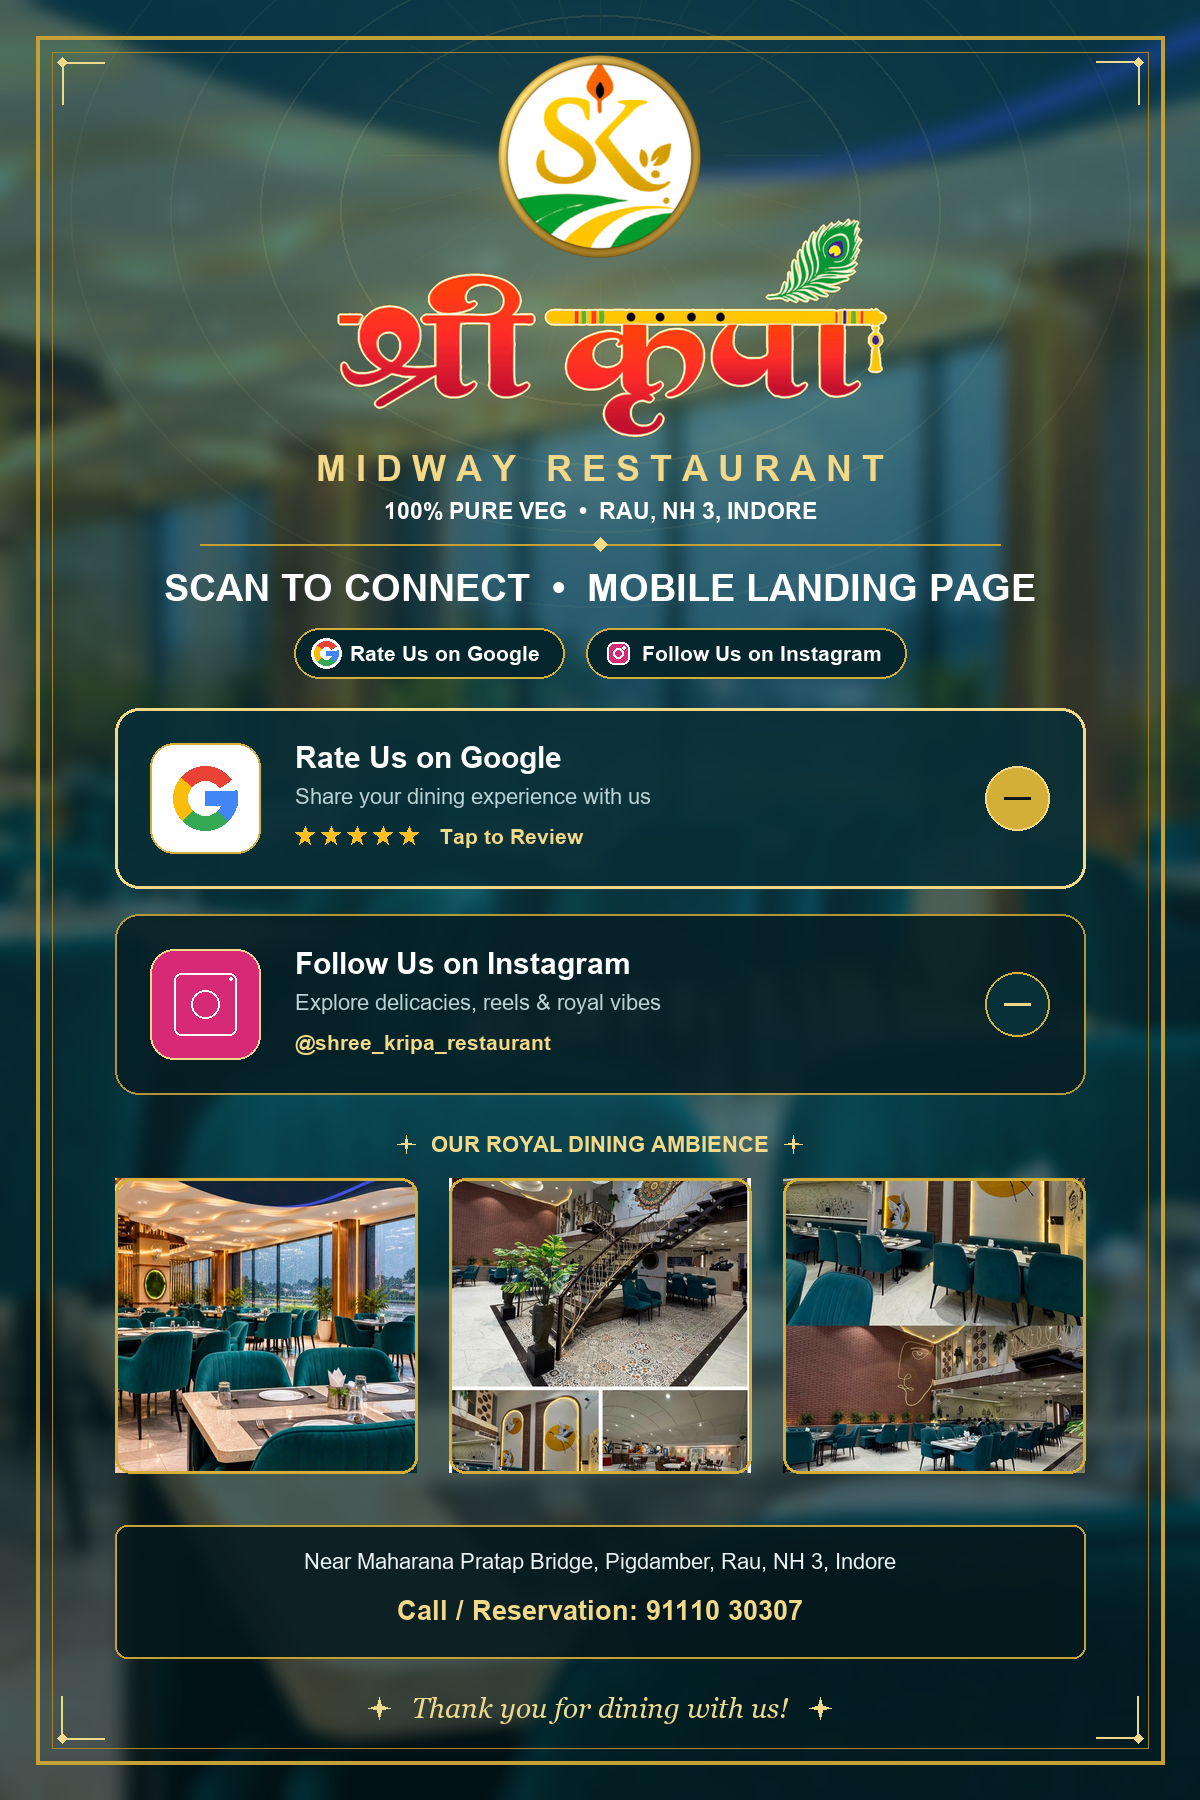
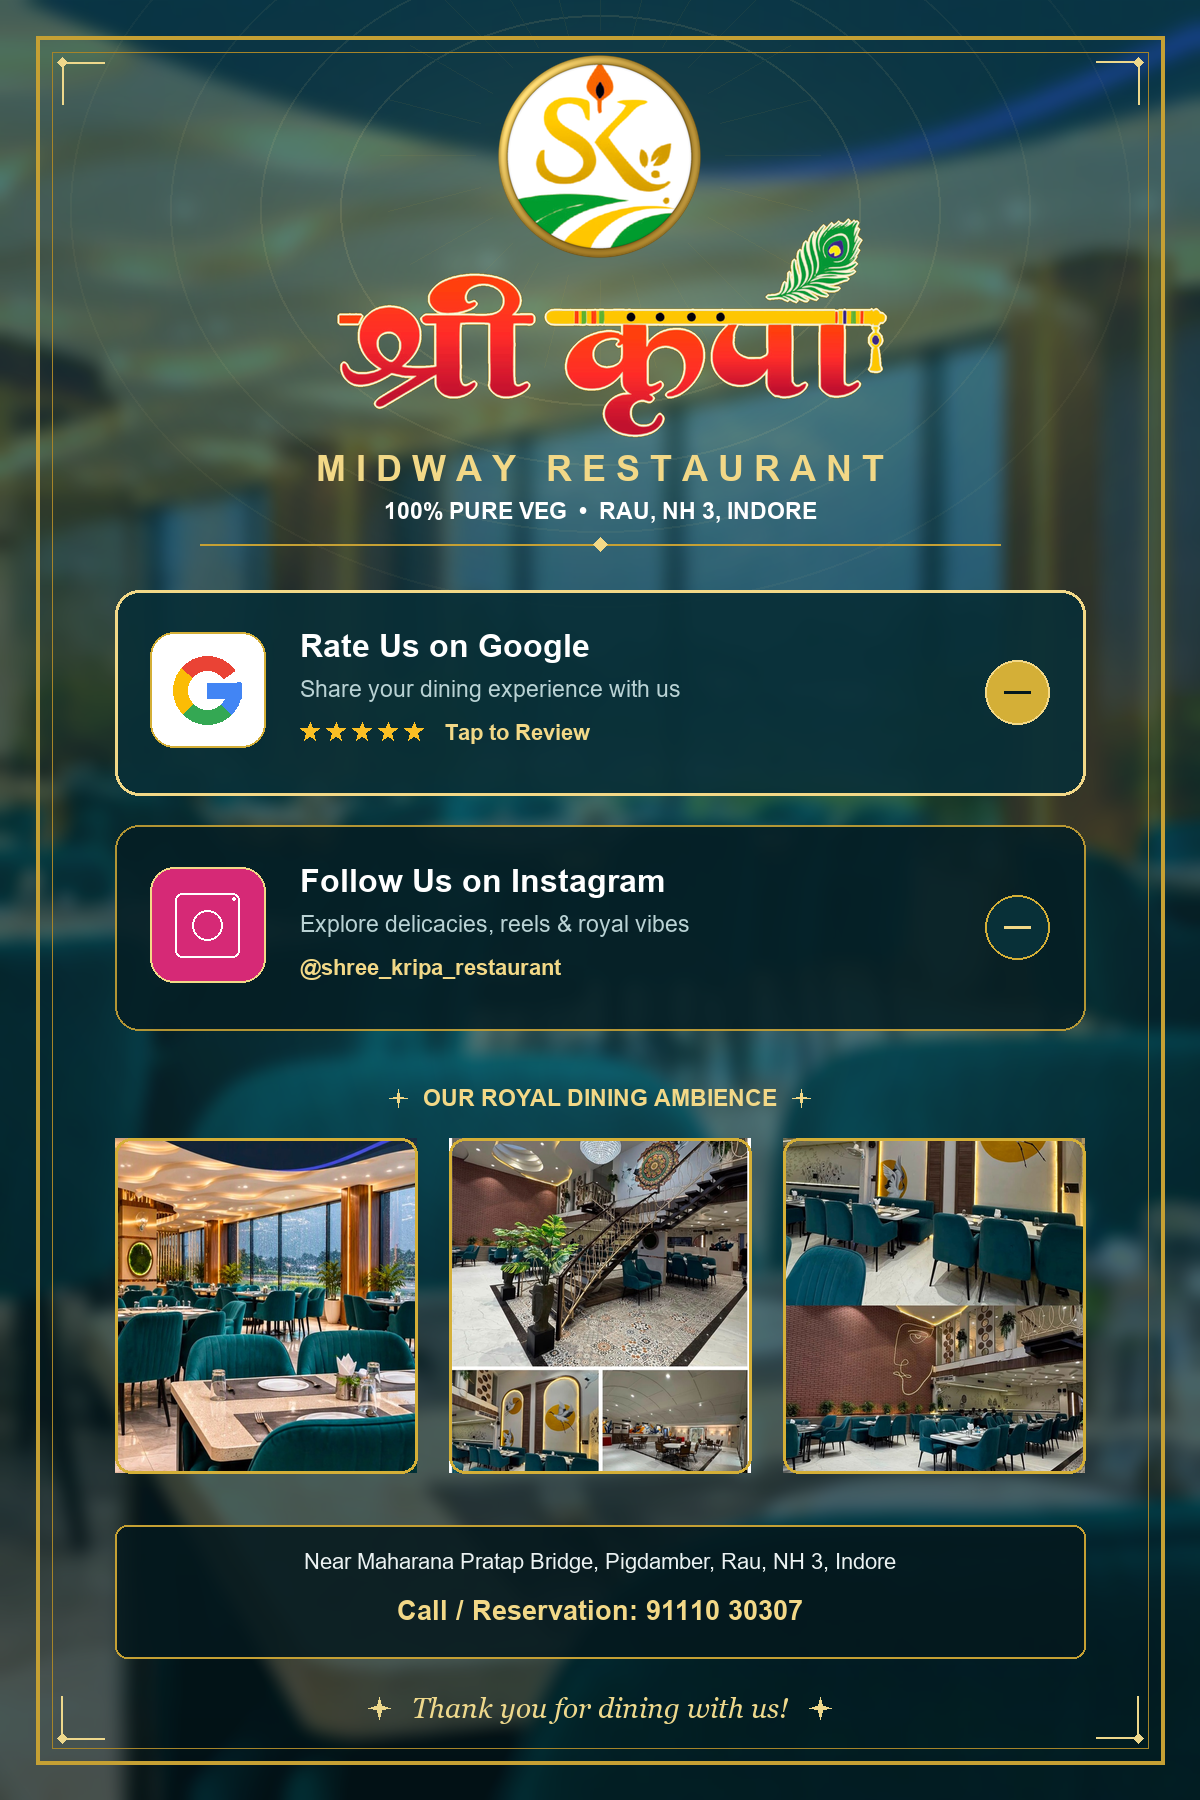
Remove duplicate top pills from mobile landing page

Changed region(s): [[0.0925, 0.3111, 0.925, 0.84]]

diff --git a/index.html b/index.html
@@ -561,30 +561,6 @@
             <div class="gold-diamond"></div>
         </div>
 
-        <div class="connect-heading">SCAN TO CONNECT</div>
-
-        <!-- Pill Badges: Rate Us on Google & Follow Us on Instagram -->
-        <div class="pills-row">
-            <a href="https://share.google/MwO49jjEmQJTSvkte" target="_blank" rel="noopener noreferrer" class="pill-badge" id="pillGoogle">
-                <svg viewBox="0 0 24 24">
-                    <path fill="#EA4335" d="M12 5c1.6 0 3 .6 4.1 1.7l3.1-3.1C17.3 1.8 14.8 1 12 1 7.4 1 3.5 3.6 1.6 7.4l3.7 2.8C6.2 7.2 8.9 5 12 5z"/>
-                    <path fill="#4285F4" d="M23.5 12.3c0-.8-.1-1.6-.2-2.3H12v4.5h6.5c-.3 1.5-1.1 2.8-2.4 3.6l3.7 2.9c2.2-2 3.7-5 3.7-8.7z"/>
-                    <path fill="#FBBC05" d="M5.3 14.8c-.2-.8-.4-1.6-.4-2.5s.2-1.7.4-2.5L1.6 7C.6 9 0 11.2 0 13.5s.6 4.5 1.6 6.5l3.7-2.9z"/>
-                    <path fill="#34A853" d="M12 24c3.2 0 6-1.1 8-3l-3.7-2.9c-1.1.7-2.5 1.2-4.3 1.2-3.1 0-5.8-2.1-6.7-5l-3.7 2.8C3.5 20.9 7.4 24 12 24z"/>
-                </svg>
-                <span>Rate Us on Google</span>
-            </a>
-
-            <a href="https://www.instagram.com/shree_kripa_restaurant?stkn=YjdsMzlvMTNlc3dz" target="_blank" rel="noopener noreferrer" class="pill-badge" id="pillInsta">
-                <svg viewBox="0 0 24 24" fill="none" stroke="#ffffff" stroke-width="2" stroke-linecap="round" stroke-linejoin="round">
-                    <rect x="2" y="2" width="20" height="20" rx="5" ry="5"></rect>
-                    <path d="M16 11.37A4 4 0 1 1 12.63 8 4 4 0 0 1 16 11.37z"></path>
-                    <line x1="17.5" y1="6.5" x2="17.51" y2="6.5"></line>
-                </svg>
-                <span>Follow Us on Instagram</span>
-            </a>
-        </div>
-
         <!-- 3. Primary Action Cards -->
         <main class="links-wrapper">
             <!-- Card 1: Rate Us on Google -->

diff --git a/generate_qr.py b/generate_qr.py
@@ -551,7 +551,7 @@ def build_mobile_landing_preview(bg_img, output_filename="mobile_landing_preview
     Generate a visual preview of the Mobile QR Landing Page (index.html) showing:
     - Exact same Peacock Teal & Warm Golden Cove Ambience background
     - Circular 24k Gold Rim SK Logo + Official Hindi 'श्री कृपा' Calligraphy with Bansuri & Mor Pankh
-    - 'Rate Us on Google' and 'Follow Us on Instagram' pills & interactive cards
+    - 'Rate Us on Google' and 'Follow Us on Instagram' interactive cards (no duplicate top pills)
     - Ambience gallery strip + Address & Call button
     """
     w, h = 1200, 1800
@@ -560,81 +560,53 @@ def build_mobile_landing_preview(bg_img, output_filename="mobile_landing_preview
     draw_indri_luxury_borders(draw, w, h)
     draw_brand_header(canvas, draw, w)
 
-    font_cta = get_font(38, bold=True)
-    font_pill = get_font(21, bold=True)
-    font_card_title = get_font(30, bold=True)
-    font_card_desc = get_font(22, bold=False)
-    font_card_tag = get_font(21, bold=True)
-    font_sec = get_font(22, bold=True)
+    font_card_title = get_font(32, bold=True)
+    font_card_desc = get_font(23, bold=False)
+    font_card_tag = get_font(22, bold=True)
+    font_sec = get_font(23, bold=True)
 
-    cta_text = "SCAN TO CONNECT  •  MOBILE LANDING PAGE"
-    bbox = draw.textbbox((0, 0), cta_text, font=font_cta)
-    draw.text(((w - (bbox[2] - bbox[0])) / 2, 566), cta_text, fill=(255, 255, 255), font=font_cta)
-
-    # Pills: Rate Us on Google & Follow Us on Instagram
-    label_g = "Rate Us on Google"
-    label_i = "Follow Us on Instagram"
-    bbox_g = draw.textbbox((0, 0), label_g, font=font_pill)
-    bbox_i = draw.textbbox((0, 0), label_i, font=font_pill)
-    pill_y = 628
-    pill_h = 50
-    pill_w_g = (bbox_g[2] - bbox_g[0]) + 80
-    pill_w_i = (bbox_i[2] - bbox_i[0]) + 80
-    gap = 22
-    start_x = int((w - (pill_w_g + gap + pill_w_i)) / 2)
-
-    gx1, gy1 = start_x, pill_y
-    draw.rounded_rectangle([gx1, gy1, gx1 + pill_w_g, gy1 + pill_h], radius=25, fill=(6, 38, 45), outline=(212, 175, 55), width=2)
-    draw_google_g_icon(draw, gx1 + 32, gy1 + pill_h // 2, radius=12)
-    draw.text((gx1 + 56, gy1 + 13), label_g, fill=(255, 255, 255), font=font_pill)
-
-    ix1 = gx1 + pill_w_g + gap
-    draw.rounded_rectangle([ix1, gy1, ix1 + pill_w_i, gy1 + pill_h], radius=25, fill=(6, 38, 45), outline=(212, 175, 55), width=2)
-    draw_instagram_icon(draw, ix1 + 32, gy1 + pill_h // 2, size=22)
-    draw.text((ix1 + 56, gy1 + 13), label_i, fill=(255, 255, 255), font=font_pill)
-
-    # Action Card 1: Rate Us on Google
+    # Action Card 1 & 2 (Directly below the gold divider, no duplicate top pills)
     glass = Image.new("RGBA", (w, h), (0, 0, 0, 0))
     gdraw = ImageDraw.Draw(glass)
-    c1_y1, c1_y2 = 708, 888
-    c2_y1, c2_y2 = 914, 1094
-    gdraw.rounded_rectangle([115, c1_y1, w - 115, c1_y2], radius=24, fill=(8, 46, 54, 230), outline=(242, 216, 135, 255), width=3)
-    gdraw.rounded_rectangle([115, c2_y1, w - 115, c2_y2], radius=24, fill=(5, 30, 36, 225), outline=(197, 160, 52, 230), width=2)
+    c1_y1, c1_y2 = 590, 795
+    c2_y1, c2_y2 = 825, 1030
+    gdraw.rounded_rectangle([115, c1_y1, w - 115, c1_y2], radius=24, fill=(8, 46, 54, 232), outline=(242, 216, 135, 255), width=3)
+    gdraw.rounded_rectangle([115, c2_y1, w - 115, c2_y2], radius=24, fill=(5, 30, 36, 228), outline=(197, 160, 52, 230), width=2)
     canvas.paste(Image.alpha_composite(canvas.convert("RGBA"), glass).convert("RGB"))
     draw = ImageDraw.Draw(canvas)
 
     # Google Card Content
-    draw.rounded_rectangle([150, c1_y1 + 35, 260, c1_y1 + 145], radius=24, fill=(255, 255, 255), outline=(212, 175, 55), width=2)
-    draw_google_g_icon(draw, 205, c1_y1 + 90, radius=32)
-    draw.text((295, c1_y1 + 32), "Rate Us on Google", fill=(255, 255, 255), font=font_card_title)
-    draw.text((295, c1_y1 + 76), "Share your dining experience with us", fill=(185, 210, 212), font=font_card_desc)
-    draw_5_stars_row(draw, 305, c1_y1 + 128, star_radius=10, spacing=26, color=(251, 191, 36))
-    draw.text((440, c1_y1 + 116), "Tap to Review", fill=(242, 216, 135), font=font_card_tag)
-    draw.ellipse([w - 215, c1_y1 + 58, w - 151, c1_y1 + 122], fill=(212, 175, 55), outline=(242, 216, 135), width=2)
-    draw.line([w - 196, c1_y1 + 90, w - 170, c1_y1 + 90], fill=(4, 24, 29), width=3)
+    draw.rounded_rectangle([150, c1_y1 + 42, 265, c1_y1 + 157], radius=24, fill=(255, 255, 255), outline=(212, 175, 55), width=2)
+    draw_google_g_icon(draw, 207, c1_y1 + 100, radius=34)
+    draw.text((300, c1_y1 + 38), "Rate Us on Google", fill=(255, 255, 255), font=font_card_title)
+    draw.text((300, c1_y1 + 86), "Share your dining experience with us", fill=(185, 210, 212), font=font_card_desc)
+    draw_5_stars_row(draw, 310, c1_y1 + 142, star_radius=10, spacing=26, color=(251, 191, 36))
+    draw.text((445, c1_y1 + 130), "Tap to Review", fill=(242, 216, 135), font=font_card_tag)
+    draw.ellipse([w - 215, c1_y1 + 70, w - 151, c1_y1 + 134], fill=(212, 175, 55), outline=(242, 216, 135), width=2)
+    draw.line([w - 196, c1_y1 + 102, w - 170, c1_y1 + 102], fill=(4, 24, 29), width=3)
 
     # Instagram Card Content
-    draw.rounded_rectangle([150, c2_y1 + 35, 260, c2_y1 + 145], radius=24, fill=(214, 41, 118), outline=(242, 216, 135), width=2)
-    draw_instagram_icon(draw, 205, c2_y1 + 90, size=62)
-    draw.text((295, c2_y1 + 32), "Follow Us on Instagram", fill=(255, 255, 255), font=font_card_title)
-    draw.text((295, c2_y1 + 76), "Explore delicacies, reels & royal vibes", fill=(185, 210, 212), font=font_card_desc)
-    draw.text((295, c2_y1 + 116), "@shree_kripa_restaurant", fill=(242, 216, 135), font=font_card_tag)
-    draw.ellipse([w - 215, c2_y1 + 58, w - 151, c2_y1 + 122], fill=(8, 48, 56), outline=(212, 175, 55), width=2)
-    draw.line([w - 196, c2_y1 + 90, w - 170, c2_y1 + 90], fill=(242, 216, 135), width=3)
+    draw.rounded_rectangle([150, c2_y1 + 42, 265, c2_y1 + 157], radius=24, fill=(214, 41, 118), outline=(242, 216, 135), width=2)
+    draw_instagram_icon(draw, 207, c2_y1 + 100, size=64)
+    draw.text((300, c2_y1 + 38), "Follow Us on Instagram", fill=(255, 255, 255), font=font_card_title)
+    draw.text((300, c2_y1 + 86), "Explore delicacies, reels & royal vibes", fill=(185, 210, 212), font=font_card_desc)
+    draw.text((300, c2_y1 + 130), "@shree_kripa_restaurant", fill=(242, 216, 135), font=font_card_tag)
+    draw.ellipse([w - 215, c2_y1 + 70, w - 151, c2_y1 + 134], fill=(8, 48, 56), outline=(212, 175, 55), width=2)
+    draw.line([w - 196, c2_y1 + 102, w - 170, c2_y1 + 102], fill=(242, 216, 135), width=3)
 
     # Ambience Showcase Strip
     sec_label = "OUR ROYAL DINING AMBIENCE"
     bbox = draw.textbbox((0, 0), sec_label, font=font_sec)
     sw = bbox[2] - bbox[0]
     sx = (w - sw) / 2
-    draw.text((sx, 1132), sec_label, fill=(242, 216, 135), font=font_sec)
-    draw_sparkle(draw, sx - 24, 1144, radius=9, color=(242, 216, 135))
-    draw_sparkle(draw, sx + sw + 24, 1144, radius=9, color=(242, 216, 135))
+    draw.text((sx, 1085), sec_label, fill=(242, 216, 135), font=font_sec)
+    draw_sparkle(draw, sx - 24, 1098, radius=9, color=(242, 216, 135))
+    draw_sparkle(draw, sx + sw + 24, 1098, radius=9, color=(242, 216, 135))
 
-    thumb_w, thumb_h = 302, 295
+    thumb_w, thumb_h = 302, 335
     thumb_gap = 32
     t_start_x = int((w - (thumb_w * 3 + thumb_gap * 2)) / 2)
-    t_y = 1178
+    t_y = 1138
     for idx, fn in enumerate(["ambience_1.jpg", "ambience_2.jpg", "ambience_3.jpg"]):
         tx = t_start_x + idx * (thumb_w + thumb_gap)
         if os.path.exists(fn):
